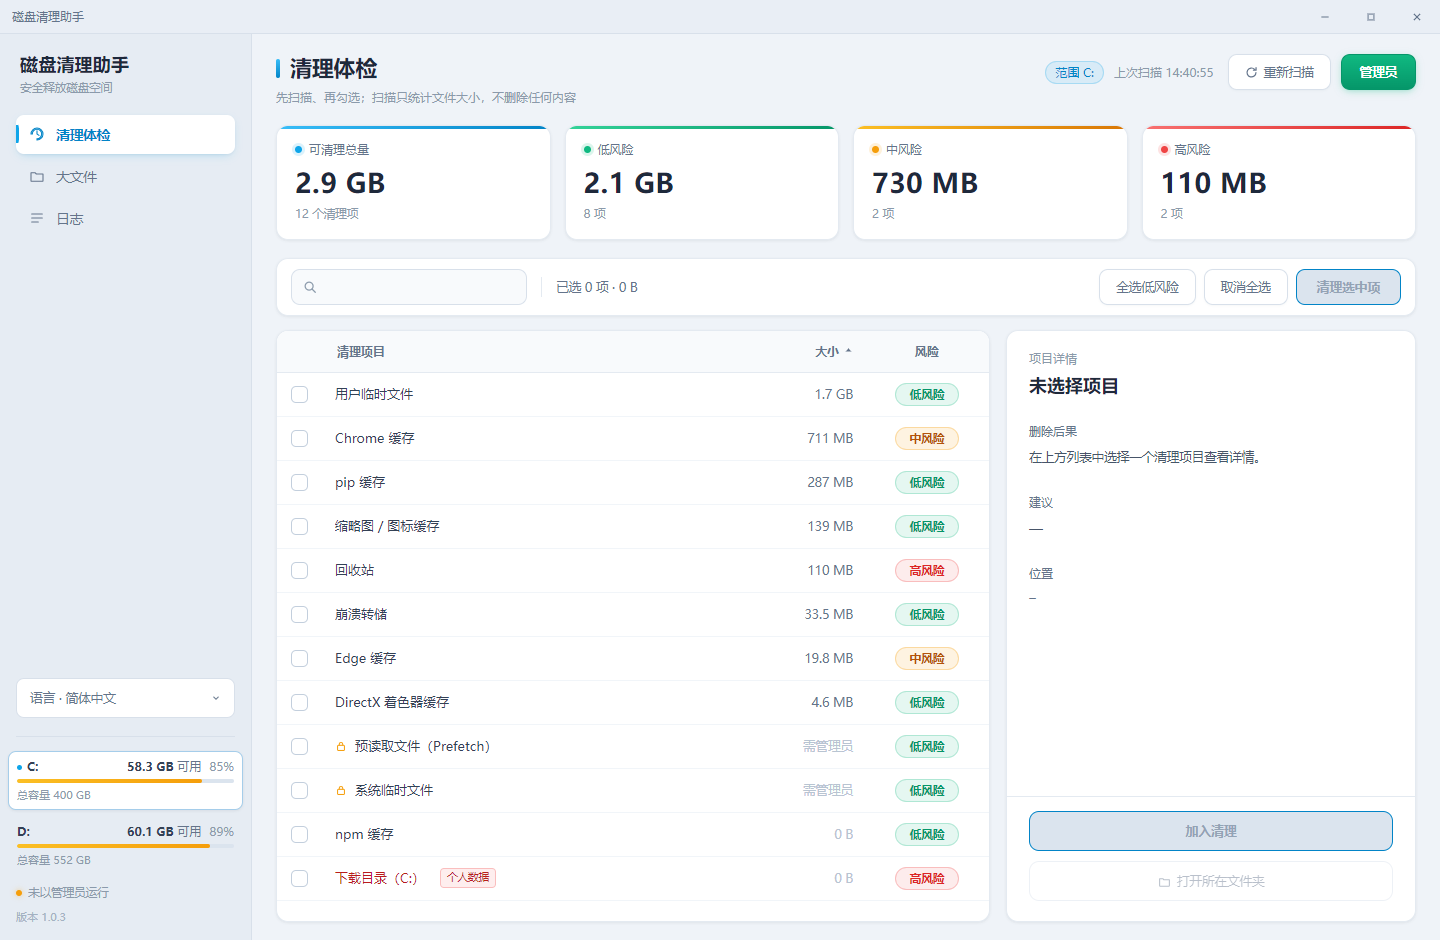
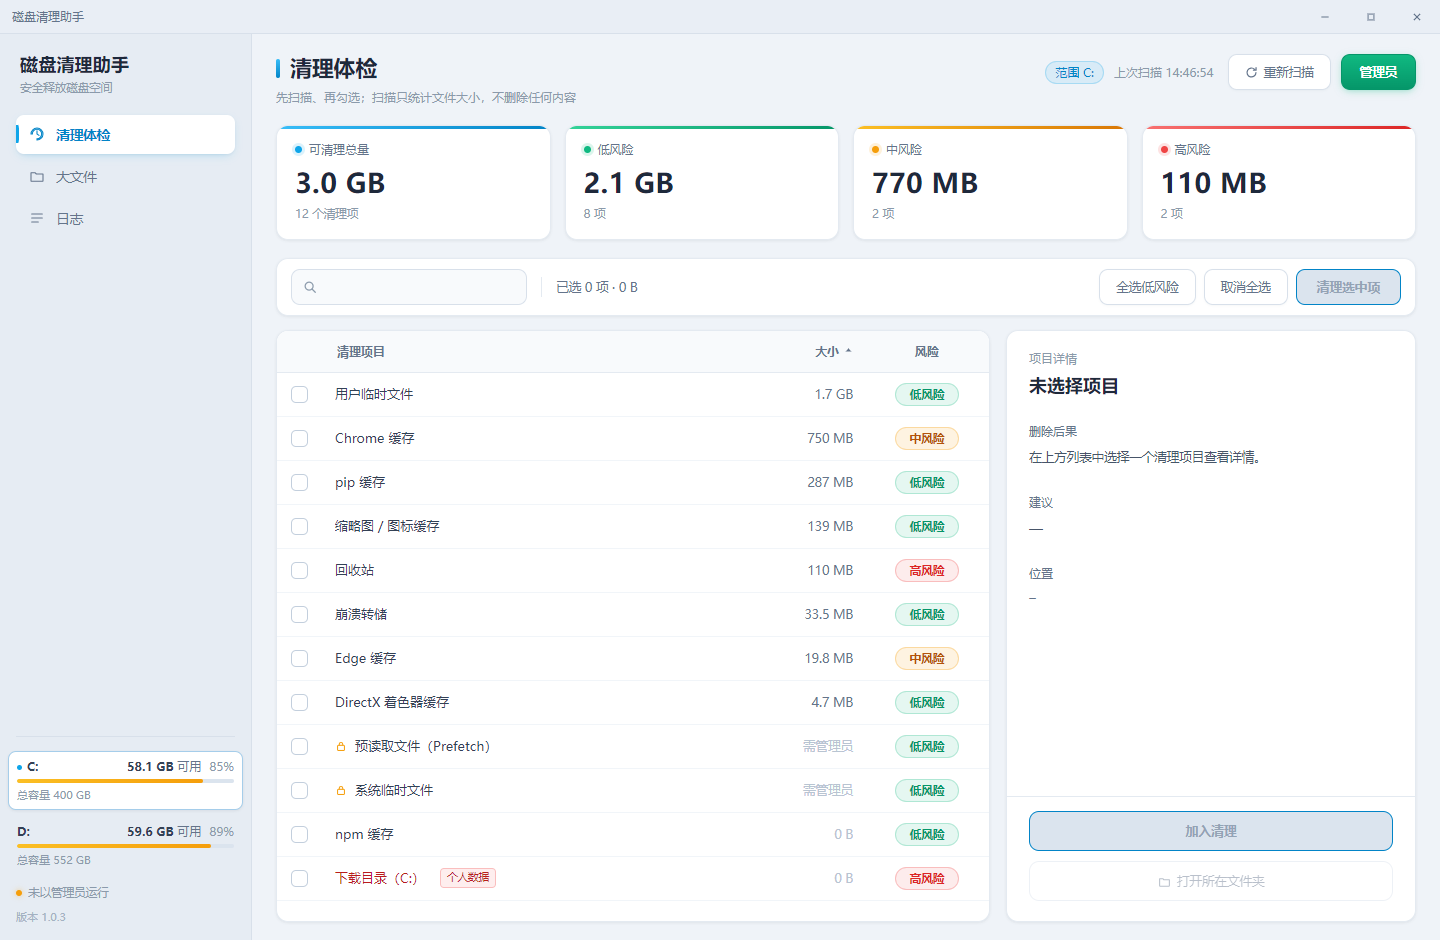
fix: 移除未实现的语言选择器
侧边栏「语言 · 简体中文」是纯静态元素，无任何绑定逻辑，
点击无反应，容易误导用户。直接移除该元素及其样式。

Changed region(s): [[0.0, 0.7096, 0.1875, 0.7713], [0.1875, 0.1851, 0.25, 0.216]]

diff --git a/src/renderer/index.html b/src/renderer/index.html
@@ -70,17 +70,10 @@
           </button>
         </nav>
 
-        <div class="lang-select" id="lang-select">
-          <span>语言 · 简体中文</span>
-          <svg viewBox="0 0 12 12" width="10" height="10">
-            <path d="M3 4.5L6 7.5 9 4.5" fill="none" stroke="currentColor" stroke-width="1.2" />
-          </svg>
-        </div>
-
         <div class="sidebar-bottom">
           <div class="drives-list" id="drives"></div>
           <div class="admin-line" id="admin-line">检测中…</div>
-          <div class="version-line">版本 <span id="app-version">1.0.2</span></div>
+          <div class="version-line">版本 <span id="app-version">1.0.4</span></div>
         </div>
       </aside>
 

diff --git a/src/renderer/styles.css b/src/renderer/styles.css
@@ -225,20 +225,6 @@ button {
   background: var(--accent);
 }
 
-.lang-select {
-  display: flex;
-  align-items: center;
-  justify-content: space-between;
-  padding: 11px 13px;
-  border-radius: var(--radius-sm);
-  border: 1px solid var(--border);
-  background: #ffffff;
-  color: var(--text-dim);
-  font-size: 12.5px;
-  margin-top: 14px;
-  cursor: default;
-}
-
 .sidebar-bottom {
   margin-top: 18px;
   border-top: 1px solid var(--border);
